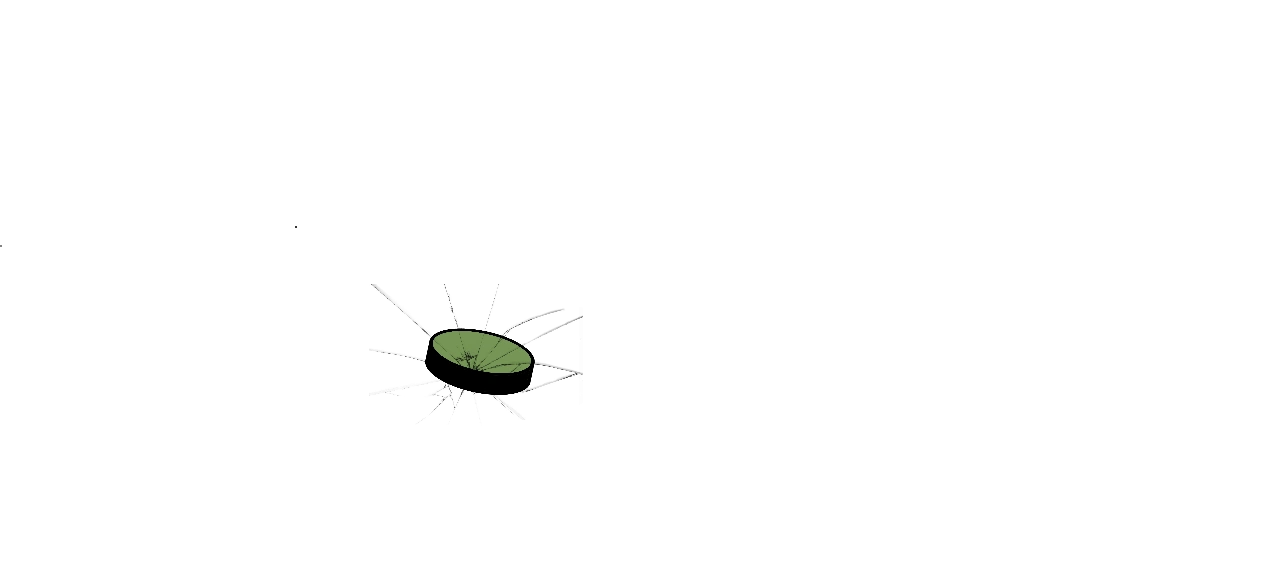
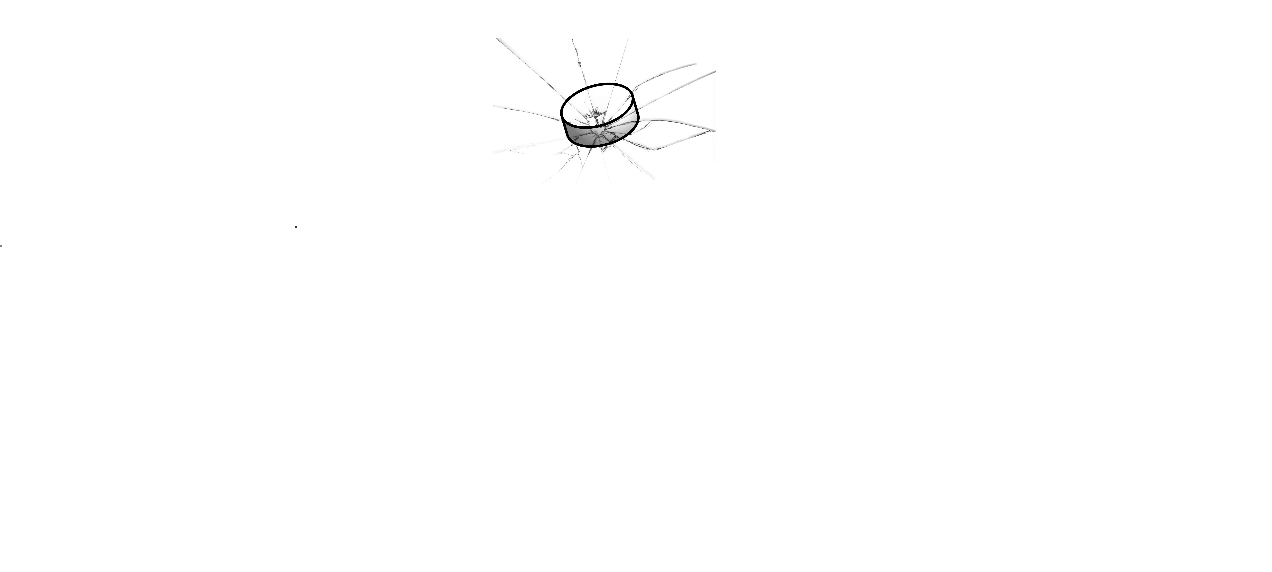
ref: change chapeker postition

Changed region(s): [[0.4292, 0.1486, 0.5519, 0.2675], [0.3373, 0.5647, 0.4599, 0.7133]]

diff --git a/packages/client/src/containers/MotionLayer/styles.scss b/packages/client/src/containers/MotionLayer/styles.scss
@@ -7,7 +7,6 @@
     &__container {
         min-width: 100vw;
         perspective: 1000px;
-        min-height: 100vh;
         transform-style: preserve-3d;
         transform: rotateX(var(--move-y)) rotateY(var(--move-x));
         will-change: transform;
@@ -24,22 +23,25 @@
     }
 
     &__1 {
-        transform: translateZ(-20px) scale(1.1);
-        pointer-events: none;
+        transform: translateZ(-50px) scale(1);
     }
 
     &__2 {
-        transform: translateZ(-60px) scale(.88);
-        pointer-events: none;
+        transform: translateZ(-100px) scale(.88);
     }
 
     &__4 {
-        transform: translateZ(90px) scale(.9);
-        pointer-events: none;
+        transform: translateZ(-90px) scale(.9);
     }
 
     &__5 {
-        transform: translateZ(100px) scale(.9);
+        transform: translateZ(10px) scale(.9);
+    }
+
+    &__1,
+    &__2,
+    &__4,
+    &__5 {
         pointer-events: none;
     }
 }

diff --git a/packages/client/src/containers/Layout/Layout.tsx b/packages/client/src/containers/Layout/Layout.tsx
@@ -6,10 +6,10 @@ const Layout = ({ children }: PropsWithChildren) => {
   return (
     <Box
       sx={{
-        minWidth: '110vw',
-        minHeight: '110vh',
+        minHeight: '100vh',
+        overflow: 'hidden',
         background: `url(${backgrouundPicture})`,
-        backgroundSize: 'contain',
+        backgroundSize: 'cover',
         backgroundRepeat: 'no-repeat',
         backgroundPosition: 'center',
         display: 'flex',

diff --git a/packages/client/src/App.scss b/packages/client/src/App.scss
@@ -5,7 +5,6 @@ $brigth-chess-square: #e9edcc;
 
 body {
     background-color: $main-background-color;
-    overflow: hidden;
 }
 
 html,
